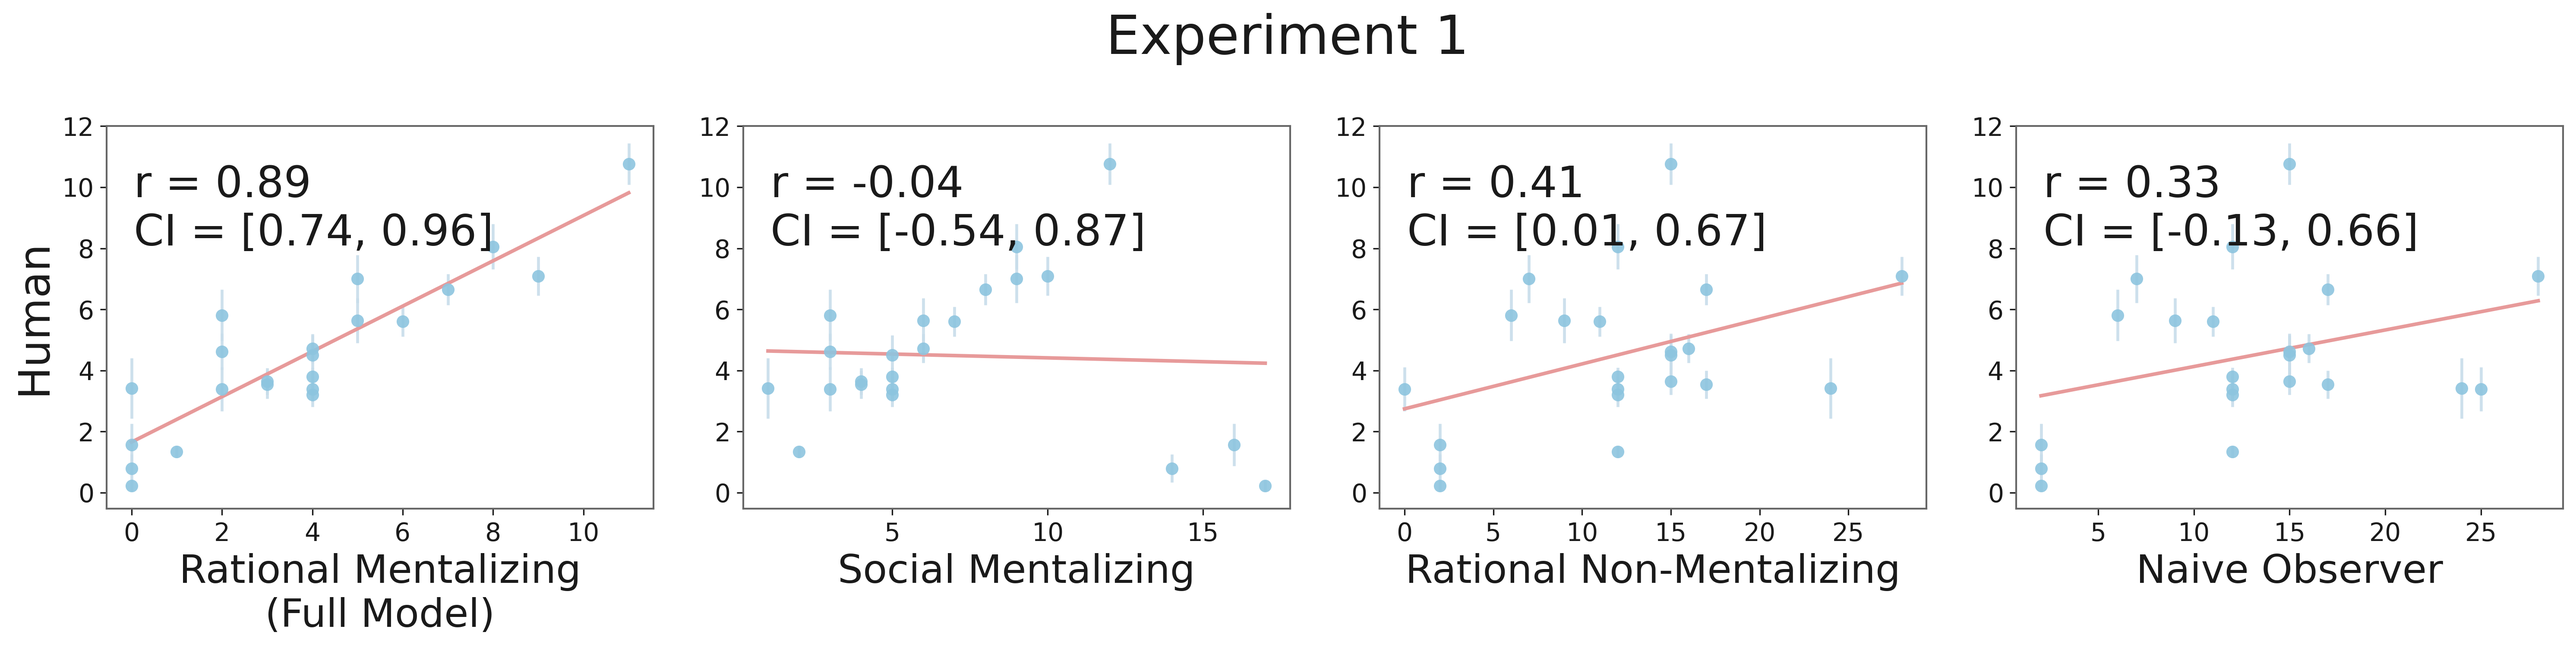
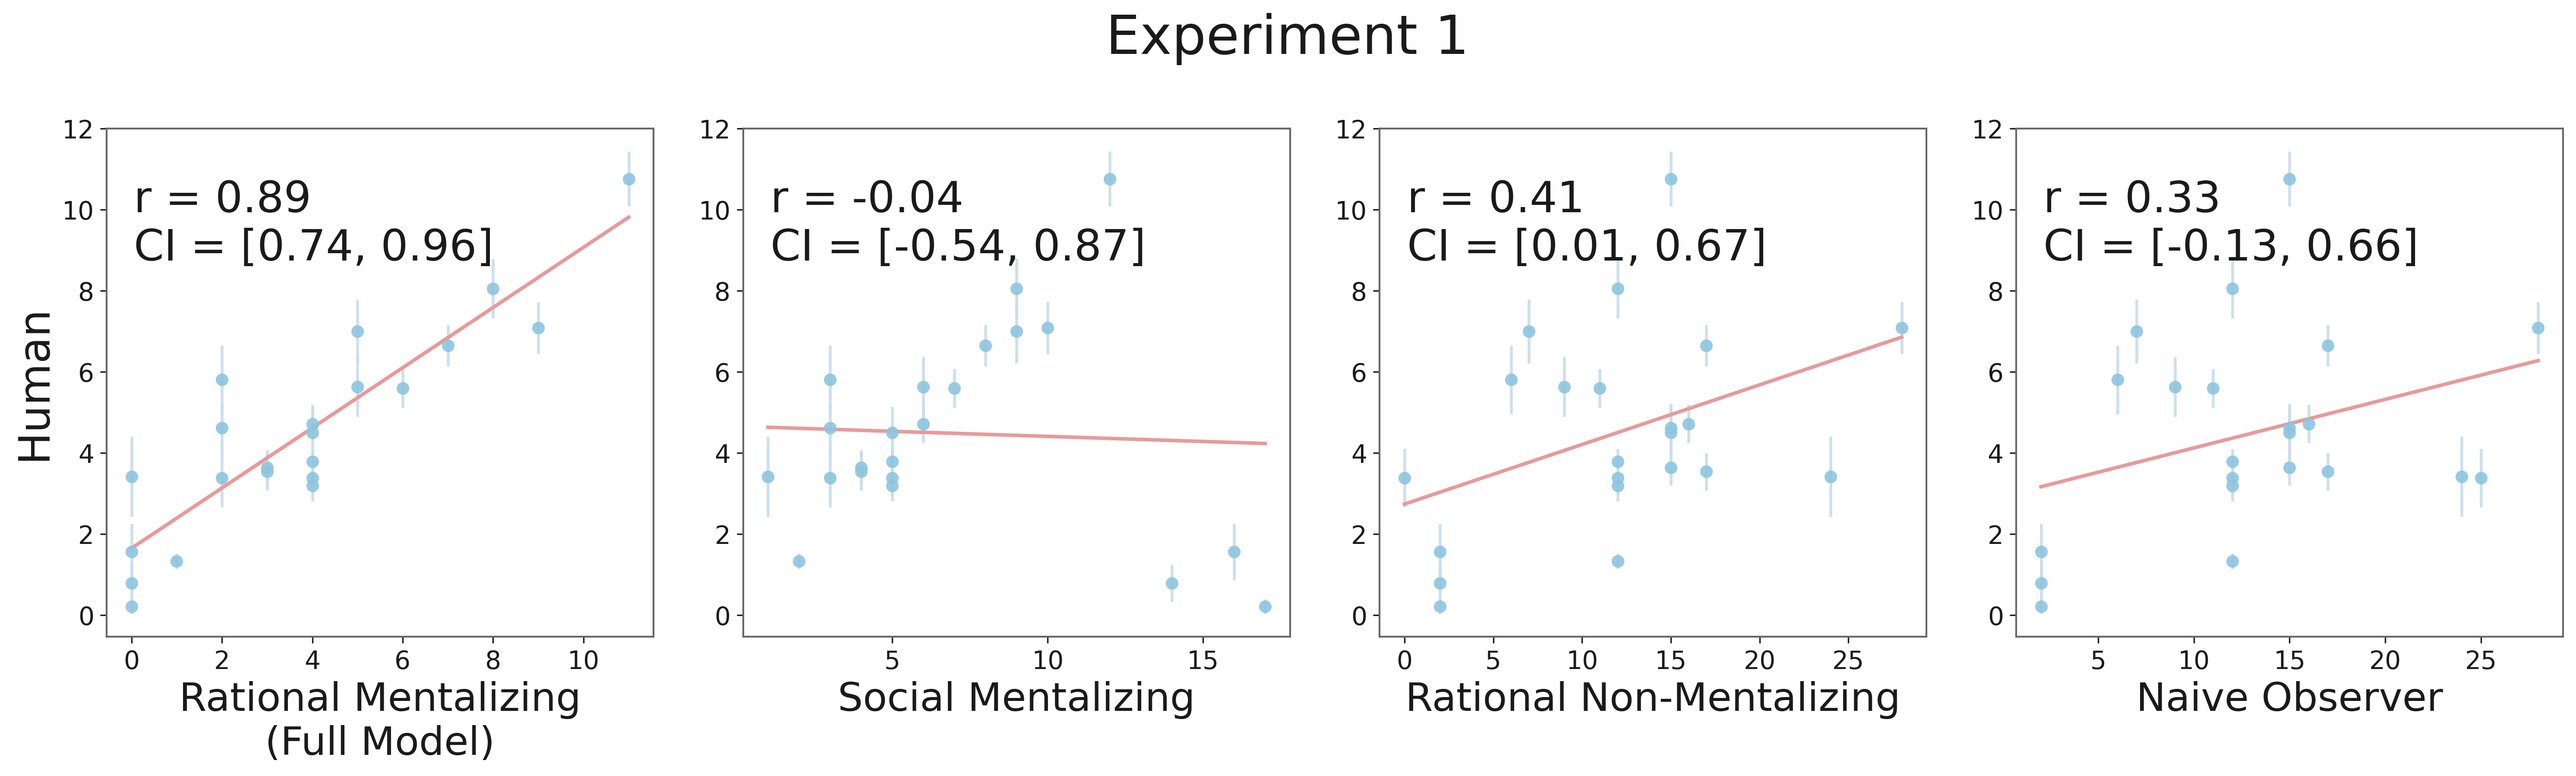
update

diff --git a/data_processing/scripts/correlation_exp3_4panel.py b/data_processing/scripts/correlation_exp3_4panel.py
@@ -160,47 +160,42 @@ def collect_pairs(pred_dict, human_stats, agent):
 output_dir = data_processing_dir / 'outputs/plots'
 output_dir.mkdir(parents=True, exist_ok=True)
 
-for agent in ('agent2', 'agent3'):
+fig, axes = plt.subplots(2, 4, figsize=(20, 10))
+fig.suptitle("Experiment 3", fontsize=30, color="#1a1a1a", y=1.01)
+
+for row, agent in enumerate(('agent2', 'agent3')):
+    agent_label = "agent 2" if agent == "agent2" else "agent 3"
     pairs = {
-        'Rational Mentalizing\n(Full Model)': collect_pairs(model_dict,             human_stats, agent),
-        'Social Mentalizing':                 collect_pairs(baseline_mentalize,      human_stats, agent),
-        'Rational Non-Mentalizing':           collect_pairs(baseline_nonmentalize,   human_stats, agent),
-        'Naive Observer':                     collect_pairs(baseline_naive,          human_stats, agent),
+        'Rational Mentalizing\n(Full Model)': collect_pairs(model_dict,            human_stats, agent),
+        'Social Mentalizing':                 collect_pairs(baseline_mentalize,     human_stats, agent),
+        'Rational Non-Mentalizing':           collect_pairs(baseline_nonmentalize,  human_stats, agent),
+        'Naive Observer':                     collect_pairs(baseline_naive,         human_stats, agent),
     }
 
-    fig, axes = plt.subplots(1, 4, figsize=(20, 5))
-    agent_label = "agent 2" if agent == "agent2" else "agent 3"
-    fig.suptitle(f"Experiment 3 ({agent_label})", fontsize=30, color="#1a1a1a", y=0.99)
-
-    for idx, (ax, (label, (x, y, sd, _keys))) in enumerate(zip(axes, pairs.items())):
+    for idx, (ax, (label, (x, y, sd, _keys))) in enumerate(zip(axes[row], pairs.items())):
         apply_reference_style(ax)
 
         if len(x) < 3:
-            ax.text(
-                0.05,
-                0.90,
-                "Insufficient data",
-                transform=ax.transAxes,
-                ha="left",
-                va="top",
-                fontsize=18,
-                color="#1a1a1a",
-            )
+            ax.text(0.05, 0.90, "Insufficient data", transform=ax.transAxes,
+                    ha="left", va="top", fontsize=18, color="#1a1a1a")
             continue
 
         plot_points_errorbars_and_fit(ax, x, y, sd)
         r, ci_low, ci_high = bootstrap_r_ci(x, y, n_resamples=1000)
         annotate_r_ci(ax, r, ci_low, ci_high)
 
-        ax.set_xlabel(label, fontsize=22, color="#1a1a1a")
+        if row == 1:
+            ax.set_xlabel(label, fontsize=22, color="#1a1a1a")
+        else:
+            ax.set_xlabel('')
+
         if idx == 0:
-            ax.set_ylabel('Human', fontsize=24, color="#1a1a1a")
+            ax.set_ylabel(f'{agent_label}\nHuman', fontsize=20, color="#1a1a1a")
         else:
             ax.set_ylabel('')
 
-    plt.tight_layout(w_pad=2.5, rect=(0, 0, 1, 0.97))
-    out_path = output_dir / f'correlation_exp3_4panel_{agent}.png'
-    plt.savefig(out_path, dpi=300, bbox_inches='tight')
-    print(f"Saved -> {out_path}")
-
+plt.tight_layout(w_pad=2.5, h_pad=3.5)
+out_path = output_dir / 'correlation_exp3_4panel.png'
+plt.savefig(out_path, dpi=300, bbox_inches='tight')
+print(f"Saved -> {out_path}")
 plt.show()

diff --git a/data_processing/scripts/correlation_exp1_4panel.py b/data_processing/scripts/correlation_exp1_4panel.py
@@ -73,7 +73,7 @@ pairs = {
 }
 
 # ── plot (4 columns x 1 row) ──────────────────────────────────────────────
-fig, axes = plt.subplots(1, 4, figsize=(20, 5))
+fig, axes = plt.subplots(1, 4, figsize=(20, 6))
 fig.suptitle("Experiment 1", fontsize=30, color="#1a1a1a", y=0.99)
 
 for idx, (ax, (label, (x, y, sd, _keys))) in enumerate(zip(axes, pairs.items())):

diff --git a/data_processing/scripts/correlation_exp2_4panel.py b/data_processing/scripts/correlation_exp2_4panel.py
@@ -72,7 +72,7 @@ pairs = {
 }
 
 # ── plot (4 columns x 1 row) ──────────────────────────────────────────────
-fig, axes = plt.subplots(1, 4, figsize=(20, 5))
+fig, axes = plt.subplots(1, 4, figsize=(20, 6))
 fig.suptitle("Experiment 2", fontsize=30, color="#1a1a1a", y=0.99)
 
 for idx, (ax, (label, (x, y, sd, _keys))) in enumerate(zip(axes, pairs.items())):

diff --git a/data_processing/scripts/run_all_correlation_4panel.py b/data_processing/scripts/run_all_correlation_4panel.py
@@ -9,8 +9,10 @@ from pathlib import Path
 
 
 SCRIPT_ORDER = [
-    "correlation_exp12_combined.py",
-    "correlation_exp34_combined.py",
+    "correlation_exp1_4panel.py",
+    "correlation_exp2_4panel.py",
+    "correlation_exp3_4panel.py",
+    "correlation_exp4_4panel.py",
 ]
 
 
